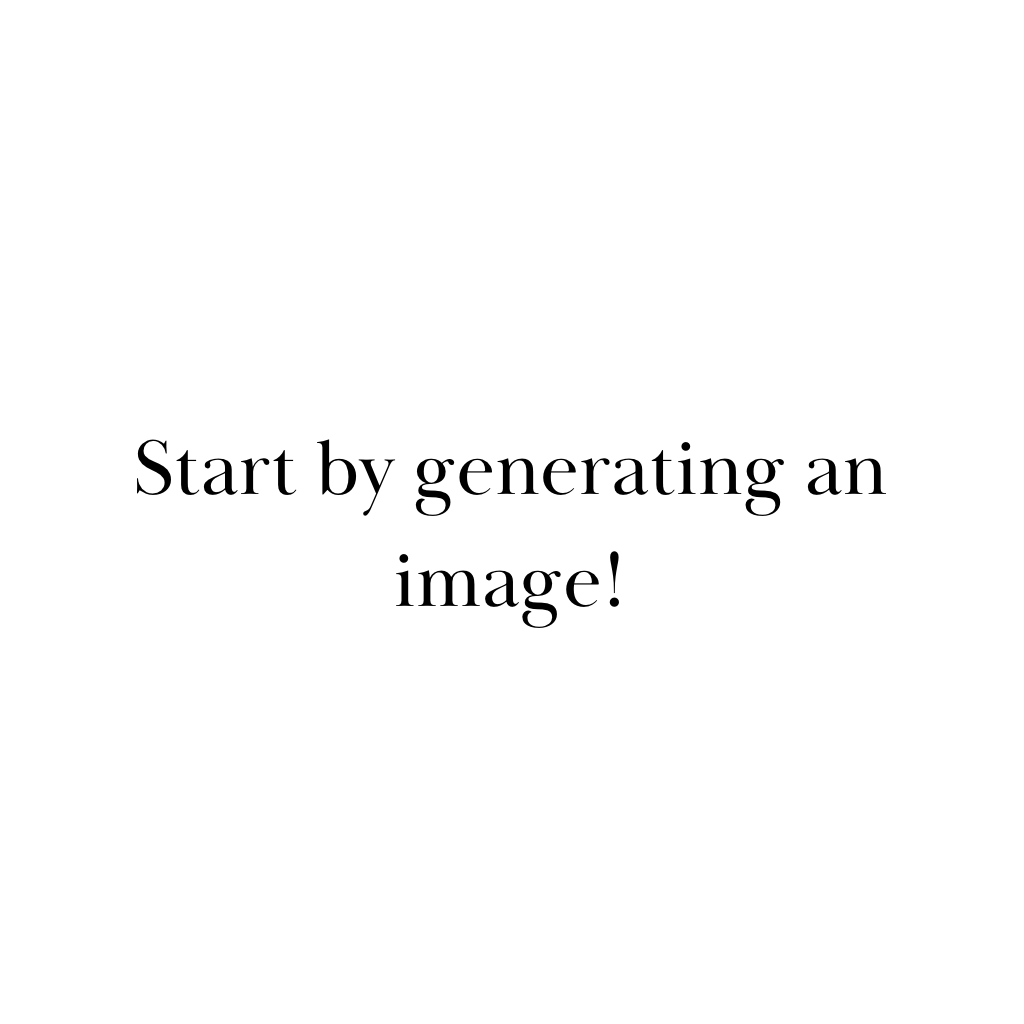
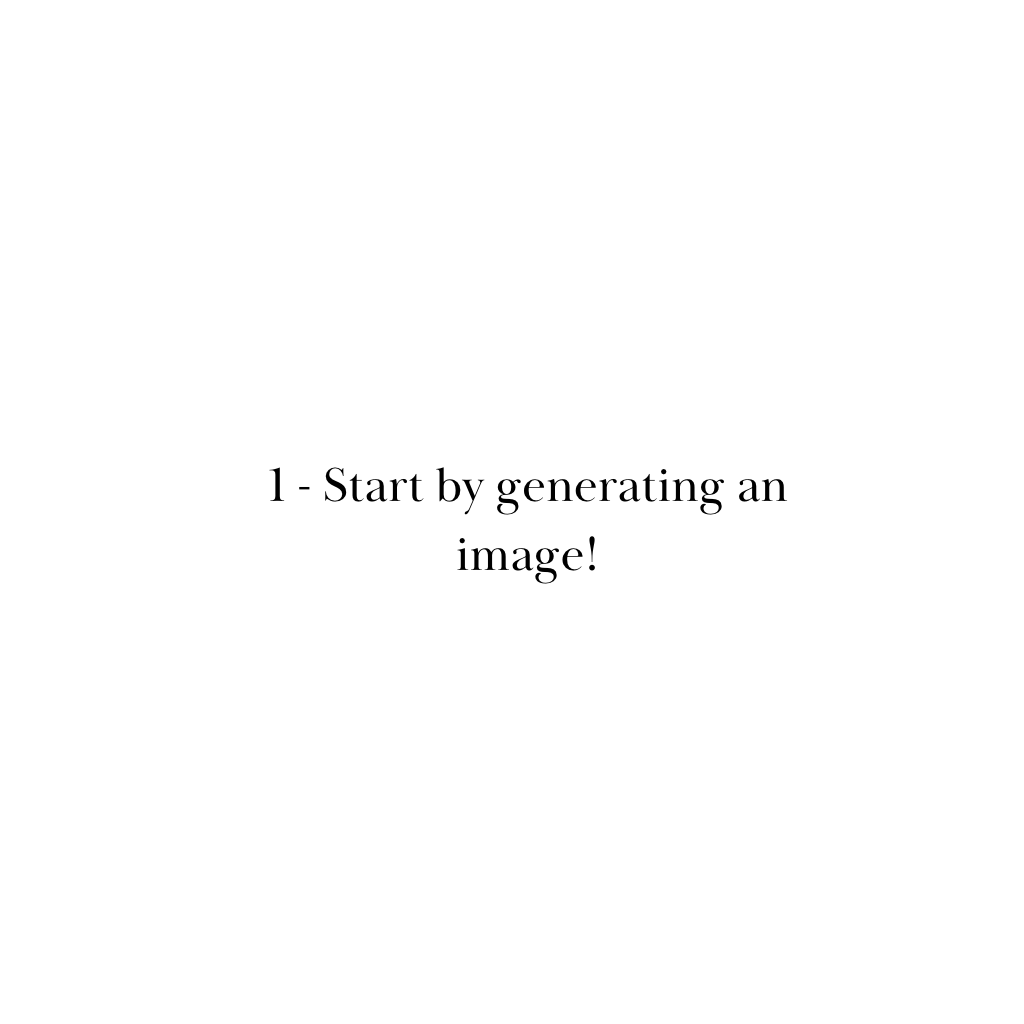
- a bunch of UX / UI - registerPilPolicy form and SDK call

Changed region(s): [[0.3125, 0.4375, 0.875, 0.5], [0.375, 0.5312, 0.625, 0.625], [0.125, 0.4375, 0.2812, 0.5]]

diff --git a/src/app/components/createPolicy.tsx b/src/app/components/createPolicy.tsx
@@ -1,0 +1,110 @@
+import { Flex, FormControl, FormLabel, Grid, Switch, NumberInput, Textarea, Button } from "@chakra-ui/react";
+import { RegisterPILPolicyRequest, StoryClient } from "@story-protocol/core-sdk";
+import { useContext, useState } from "react";
+import { ClientsContext } from "../providers/clientsProvider";
+import { SSG_FALLBACK_EXPORT_ERROR } from "next/dist/lib/constants";
+
+export default function CreatePolicy() {
+
+    const [transferable, setTransferable] = useState(true);
+    const [attribution, setAttribution] = useState(true);
+    const [commercialUse, setCommercialUse] = useState(false);
+    const [commercialAttribution, setCommercialAttribution] = useState(true);
+    const [derivativesAttribution, setDerivativesAttribution] = useState(true);
+    const [derivativesAllowed, setDerivativesAllowed] = useState(true);
+    const [derivativesApproval, setDerivativesApproval] = useState(true);
+    const [derivativesReciprocal, setDerivativesReciprocal] = useState(true);
+    const [commercialRevShare, setCommercialRevShare] = useState<number | undefined>();
+    const [territories, setTerritories] = useState<string[] | undefined>();
+    const [distributionChannels, setDistributionChannels] = useState<string[] | undefined>();
+
+    const [policyId, setPolicyId] = useState<string>("");
+
+    const storyClient: StoryClient | undefined = useContext(ClientsContext)?.storyClient;
+
+    const handleCreatePolicy = async () => {
+
+        if (!storyClient) {
+            console.log("Story client not found. Please check if the client is initialized.");
+            return;
+        }
+
+        const nonCommercialSocialRemixingParams: RegisterPILPolicyRequest = {
+            transferable: transferable,
+            attribution: attribution,
+            commercialUse: commercialUse,
+            commercialAttribution: commercialAttribution,
+            derivativesAttribution: derivativesAttribution,
+            derivativesAllowed: derivativesAllowed,
+            derivativesApproval: derivativesApproval,
+            derivativesReciprocal: derivativesReciprocal,
+            territories: territories,
+            distributionChannels: distributionChannels,
+            commercialRevShare: commercialRevShare
+        }
+
+        const response = await storyClient.policy.registerPILPolicy({
+            ...nonCommercialSocialRemixingParams,
+            txOptions: { waitForTransaction: true }
+        });
+
+        if (response.policyId) setPolicyId(response.policyId);
+        console.log(`PIL Policy registered at transaction hash ${response.txHash}, Policy ID: ${response.policyId}`)
+    };
+
+    return (
+        <Flex>
+            <Grid as="form" templateColumns="repeat(3, 1fr)" rowGap={0} h="100%" w="100%" m="auto" columnGap={8} >
+                <FormControl display="flex" alignItems="center" mb={4}>
+                    <FormLabel mb="0" fontSize="small">Transferable:</FormLabel>
+                    <Switch size="sm" colorScheme="yellow" isChecked={transferable} onChange={(e) => setTransferable(e.target.checked)} />
+                </FormControl>
+                <FormControl display="flex" alignItems="center" mb={4}>
+                    <FormLabel mb="0" fontSize="small">Attribution:</FormLabel>
+                    <Switch size="sm" isChecked={attribution} onChange={(e) => setAttribution(e.target.checked)} />
+                </FormControl>
+                <FormControl display="flex" alignItems="center" mb={4}>
+                    <FormLabel mb="0" fontSize="small">Commercial Use:</FormLabel>
+                    <Switch size="sm" isChecked={commercialUse} onChange={(e) => setCommercialUse(e.target.checked)} />
+                </FormControl>
+                <FormControl display="flex" alignItems="center" mb={4}>
+                    <FormLabel mb="0" fontSize="small">Commercial Attribution:</FormLabel>
+                    <Switch size="sm" isChecked={commercialAttribution} onChange={(e) => setCommercialAttribution(e.target.checked)} />
+                </FormControl>
+                <FormControl display="flex" alignItems="center" mb={4}>
+                    <FormLabel mb="0" fontSize="small">Derivatives Attribution:</FormLabel>
+                    <Switch size="sm" isChecked={derivativesAttribution} onChange={(e) => setDerivativesAttribution(e.target.checked)} />
+                </FormControl>
+                <FormControl display="flex" alignItems="center" mb={4}>
+                    <FormLabel mb="0" fontSize="small">Derivatives Allowed:</FormLabel>
+                    <Switch size="sm" isChecked={derivativesAllowed} onChange={(e) => setDerivativesAllowed(e.target.checked)} />
+                </FormControl>
+                <FormControl display="flex" alignItems="center" mb={4}>
+                    <FormLabel mb="0" fontSize="small">Derivatives Approval:</FormLabel>
+                    <Switch size="sm" isChecked={derivativesApproval} onChange={(e) => setDerivativesApproval(e.target.checked)} />
+                </FormControl>
+                <FormControl display="flex" alignItems="center" mb={4}>
+                    <FormLabel mb="0" fontSize="small">Derivatives Reciprocal:</FormLabel>
+                    <Switch size="sm" isChecked={derivativesReciprocal} onChange={(e) => setDerivativesReciprocal(e.target.checked)} />
+                </FormControl>
+                <FormControl display="flex" alignItems="center" mb={4}>
+                    <FormLabel mb="0" fontSize="small">Commercial Rev Share:</FormLabel>
+                    <NumberInput value={commercialRevShare || ''} onChange={(valueString) => setCommercialRevShare(Number(valueString))} />
+                </FormControl>
+                <FormControl display="flex" alignItems="center">
+                    <FormLabel mb="0" fontSize="small">Territories:</FormLabel>
+                    <Textarea size="sm" value={territories?.join(', ') || ''} onChange={(e) => setTerritories(e.target.value.split(', '))} h="10px" />
+                </FormControl>
+                <FormControl display="flex" alignItems="center">
+                    <FormLabel mb="0" fontSize="small">Distribution Channels:</FormLabel>
+                    <Textarea size="sm" fontSize="sm" value={distributionChannels?.join(', ') || ''} onChange={(e) => setDistributionChannels(e.target.value.split(', '))} />
+                </FormControl>
+                <Flex justifyContent="left" alignItems="center">
+                    <Button fontSize="sm" size="sm" w="50%" onClick={handleCreatePolicy} ml={4}>
+                        Create Policy
+                    </Button>
+                </Flex>
+            </Grid>
+        </Flex >
+    );
+}

diff --git a/src/app/components/MintPage.tsx b/src/app/components/MintPage.tsx
@@ -1,12 +1,13 @@
 'use client';
 
-import { Button, Box, Flex, Input } from "@chakra-ui/react";
+import { Button, Box, Flex, Text, Input } from "@chakra-ui/react";
 import { mint } from "./mint";
 import { registerRootIp } from "./registerRoot";
 import { StoryClient } from "@story-protocol/core-sdk";
 import { PublicClient, WalletClient } from "viem";
 import { useContext, useEffect, useState } from "react";
 import { ClientsContext } from "../providers/clientsProvider";
+import CreatePolicy from "./createPolicy";
 
 export default function MintPage() {
     const walletClient: WalletClient | undefined = useContext(ClientsContext)?.walletClient;
@@ -14,9 +15,10 @@ export default function MintPage() {
     const storyClient: StoryClient | undefined = useContext(ClientsContext)?.storyClient;
 
     const [prompt, setPrompt] = useState('');
-    const [image, setImage] = useState<Blob>();
     const [isGenerating, setIsGenerating] = useState(false);
+    const [image, setImage] = useState<Blob>();
     const [ipfsHash, setIpfsHash] = useState<string>("");
+    const [nftId, setNftId] = useState<string>("");
 
     useEffect(() => {
         console.log("starting");
@@ -103,6 +105,9 @@ export default function MintPage() {
                 >
                     {image && <img src={URL.createObjectURL(image)} alt="Generated" />}
                 </Box>
+                <Box>
+
+                </Box>
                 <Input
                     value={prompt}
                     onChange={(e) => setPrompt(e.target.value)}
@@ -128,10 +133,34 @@ export default function MintPage() {
                 justifyContent="center"
                 alignItems="center"
                 width="50%"
+                h="100%"
             >
-                <Button onClick={handleUploadFile} mb={4}>Upload Image</Button>
-                <Button onClick={handleMint} mb={4}>Mint Nft</Button>
-                <Button onClick={handleRegisterRoot}>Register Root IP</Button>
+                <Flex
+                    flexDirection="row"
+                    justifyContent="space-between"
+                    alignItems="center"
+                    w="100%"
+                    h="40%"
+                >
+                    <Flex flexDirection="column" m="5%">
+                        <Text fontSize="large" mb={4}>2 - Upload generated image to IPFS</Text>
+                        <Button onClick={handleUploadFile} mb={4}>Upload</Button>
+                        <Text fontSize="small" mb={4}>IPFS Hash: {ipfsHash ? ipfsHash : "..."}</Text>
+                    </Flex>
+                    <Flex flexDirection="column" m="5%">
+                        <Text fontSize="large" mb={4}>3 - Mint generated image as an Nft</Text>
+                        <Button onClick={handleMint} mb={4}>Mint</Button>
+                        <Text fontSize="small" mb={4}>Nft Id: {nftId ? nftId : "..."}</Text>
+                    </Flex>
+                </Flex>
+                <Flex
+                    flexDirection="column"
+                    w="100%"
+                    h="60%"
+                >
+                    <CreatePolicy />
+                    <Button mt={4} onClick={handleRegisterRoot}>Register Root IP</Button>
+                </Flex>
             </Flex>
         </Flex>
     );

diff --git a/src/app/layout.tsx b/src/app/layout.tsx
@@ -2,7 +2,7 @@ import type { Metadata } from "next";
 import { Web3Provider } from "@/app/providers/web3Provider";
 import '@rainbow-me/rainbowkit/styles.css';
 import { Flex } from "@chakra-ui/react";
-import Header from "./components/Header";
+import Header from "./components/header/Header";
 
 export const metadata: Metadata = {
   title: "Story Protocol Internship Take Home",
